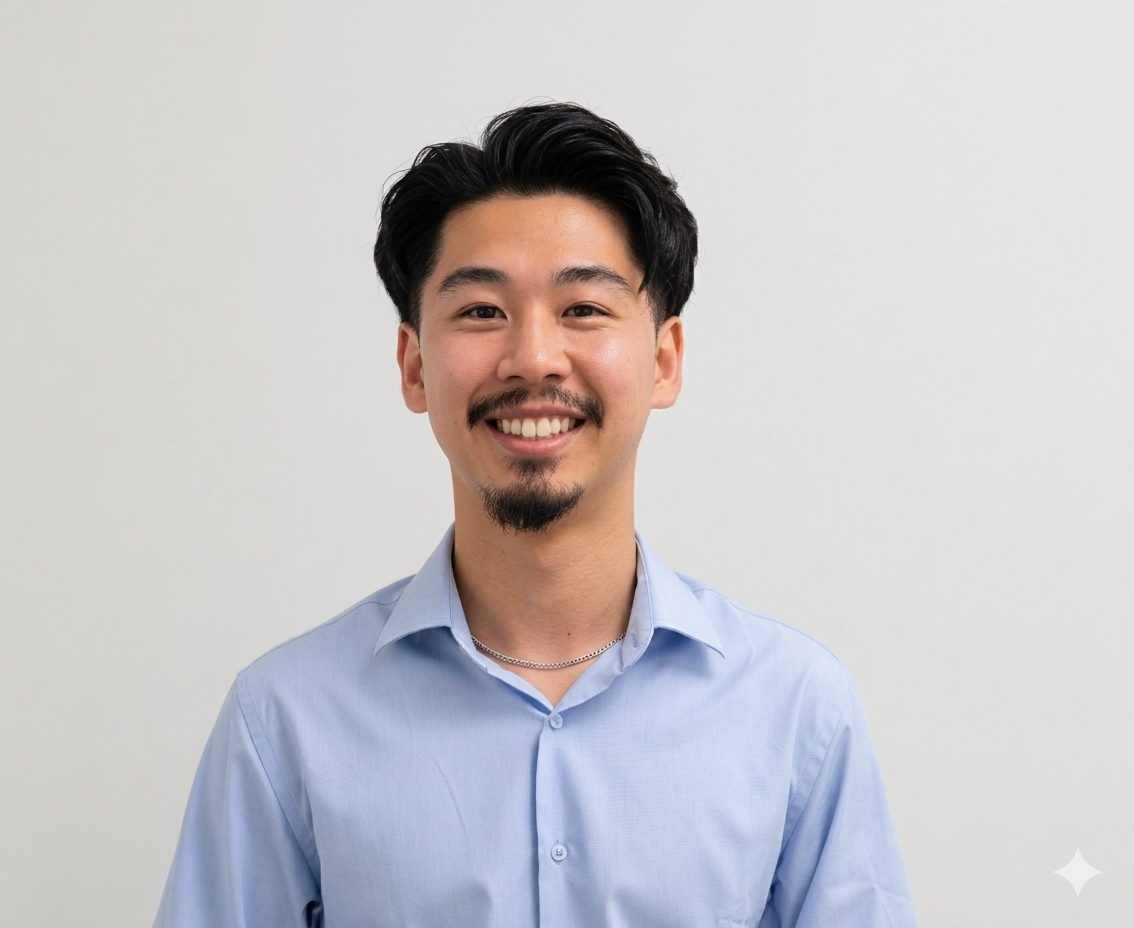
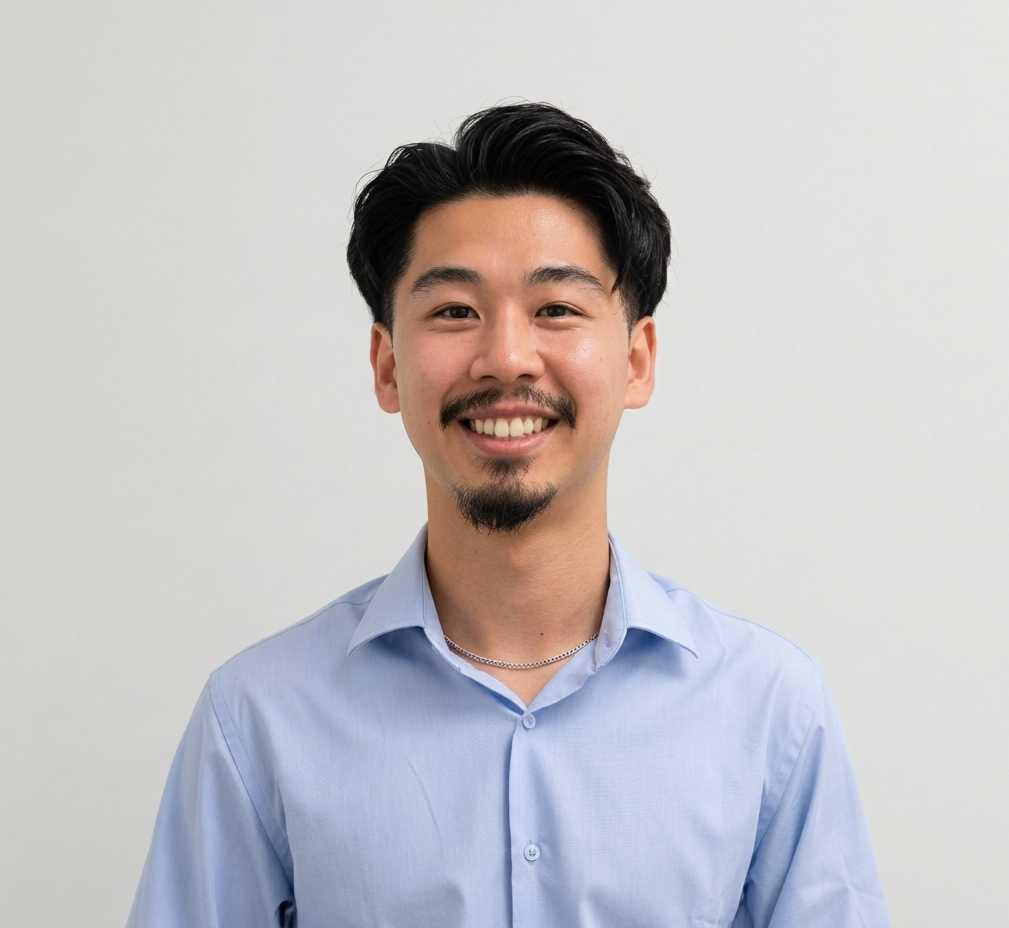
Improve mobile layout and profile photo

diff --git a/static/style.css b/static/style.css
@@ -18,6 +18,7 @@ body, html {
     color: var(--text-main);
     font-family: 'Inter', sans-serif;
     min-height: 100vh;
+    -webkit-text-size-adjust: 100%;
 }
 
 .nav-bar {
@@ -150,6 +151,7 @@ h2 { font-size: 1.5rem; margin-bottom: 15px; padding-left: 5px; }
     width: 100%;
     height: 100%;
     object-fit: cover;
+    object-position: center 34%;
 }
 
 .name-clean { margin: 0; font-size: 2.2rem; }
@@ -508,17 +510,81 @@ h2 { font-size: 1.5rem; margin-bottom: 15px; padding-left: 5px; }
 }
 
 @media (max-width: 760px) {
+    .nav-bar {
+        padding: 12px 0;
+    }
+
+    .nav-container {
+        gap: 10px 14px;
+        justify-content: flex-start;
+        overflow-x: auto;
+        padding: 0 14px;
+        scrollbar-width: none;
+        white-space: nowrap;
+    }
+
+    .nav-container::-webkit-scrollbar {
+        display: none;
+    }
+
+    .nav-bar a {
+        border: 1px solid var(--border-color);
+        border-radius: 999px;
+        color: var(--text-main);
+        flex: 0 0 auto;
+        font-size: 0.88rem;
+        padding: 8px 12px;
+        text-decoration: none;
+    }
+
+    .page-container {
+        padding: 24px 14px;
+    }
+
+    .card {
+        border-radius: 8px;
+        padding: 20px;
+    }
+
     .profile-header-clean,
     .profile-main-clean,
-    .card-header,
-    .skill-link {
-        align-items: flex-start;
+    .card-header {
+        align-items: center;
         flex-direction: column;
     }
 
     .profile-header-clean {
-        gap: 28px;
-        padding: 28px;
+        gap: 24px;
+        padding: 24px 18px;
+        text-align: center;
+    }
+
+    .avatar-container-clean {
+        height: 128px;
+        width: 128px;
+    }
+
+    .profile-orgs-clean {
+        align-items: center;
+        width: 100%;
+    }
+
+    .profile-actions {
+        justify-content: center;
+    }
+
+    .name-clean {
+        font-size: 1.8rem;
+    }
+
+    .headline-clean {
+        font-size: 1rem;
+    }
+
+    h2 {
+        font-size: 1.8rem;
+        line-height: 1.2;
+        padding-left: 0;
     }
 
     .skill-grid,
@@ -534,5 +600,59 @@ h2 { font-size: 1.5rem; margin-bottom: 15px; padding-left: 5px; }
 
     .skill-hero h1 {
         font-size: 1.9rem;
+    }
+
+    .metric-card,
+    .feature-link-card {
+        display: block;
+        min-height: auto;
+        padding: 20px;
+        text-decoration: none;
+    }
+
+    .feature-link-card span,
+    .feature-link-card p {
+        text-decoration: none;
+    }
+
+    .skills-list,
+    .compact-skills-list {
+        list-style: none;
+        padding-left: 0;
+    }
+
+    .skills-list li {
+        border-bottom: 1px solid var(--border-color);
+        padding: 12px 0;
+    }
+
+    .skills-list li:last-child {
+        border-bottom: 0;
+    }
+
+    .skill-link {
+        align-items: flex-start;
+        color: var(--text-main);
+        flex-direction: column;
+        gap: 6px;
+        line-height: 1.35;
+        text-decoration: none;
+    }
+
+    .skill-link span:first-child {
+        color: var(--text-main);
+        text-decoration: none;
+    }
+
+    .skill-arrow {
+        color: var(--accent-color);
+        font-size: 0.82rem;
+        text-decoration: none;
+    }
+
+    .project-card h2,
+    .case-study-card h2,
+    .toolkit-card h2 {
+        font-size: 1.18rem;
     }
 }

diff --git a/templates/skill.html b/templates/skill.html
@@ -4,7 +4,7 @@
     <meta charset="UTF-8">
     <meta name="viewport" content="width=device-width, initial-scale=1.0">
     <title>{{ skill.title }} | Kyle Dela Pena</title>
-    <link rel="stylesheet" href="{{ url_for('static', filename='style.css') }}">
+    <link rel="stylesheet" href="{{ url_for('static', filename='style.css') }}?v=3">
     <link href="https://fonts.googleapis.com/css2?family=Inter:wght@300;400;600&display=swap" rel="stylesheet">
 </head>
 <body>

diff --git a/templates/toolkit.html b/templates/toolkit.html
@@ -4,7 +4,7 @@
     <meta charset="UTF-8">
     <meta name="viewport" content="width=device-width, initial-scale=1.0">
     <title>Technical Toolkit | Kyle Dela Pena</title>
-    <link rel="stylesheet" href="{{ url_for('static', filename='style.css') }}">
+    <link rel="stylesheet" href="{{ url_for('static', filename='style.css') }}?v=3">
     <link href="https://fonts.googleapis.com/css2?family=Inter:wght@300;400;600&display=swap" rel="stylesheet">
 </head>
 <body>

diff --git a/templates/case_studies.html b/templates/case_studies.html
@@ -4,7 +4,7 @@
     <meta charset="UTF-8">
     <meta name="viewport" content="width=device-width, initial-scale=1.0">
     <title>Case Studies | Kyle Dela Pena</title>
-    <link rel="stylesheet" href="{{ url_for('static', filename='style.css') }}">
+    <link rel="stylesheet" href="{{ url_for('static', filename='style.css') }}?v=3">
     <link href="https://fonts.googleapis.com/css2?family=Inter:wght@300;400;600&display=swap" rel="stylesheet">
 </head>
 <body>

diff --git a/templates/experience.html b/templates/experience.html
@@ -4,7 +4,7 @@
     <meta charset="UTF-8">
     <meta name="viewport" content="width=device-width, initial-scale=1.0">
     <title>Experience | Kyle Dela Pena</title>
-    <link rel="stylesheet" href="{{ url_for('static', filename='style.css') }}">
+    <link rel="stylesheet" href="{{ url_for('static', filename='style.css') }}?v=3">
     <link href="https://fonts.googleapis.com/css2?family=Inter:wght@300;400;600&display=swap" rel="stylesheet">
 </head>
 <body>

diff --git a/templates/education.html b/templates/education.html
@@ -4,7 +4,7 @@
     <meta charset="UTF-8">
     <meta name="viewport" content="width=device-width, initial-scale=1.0">
     <title>Education | Kyle Dela Pena</title>
-    <link rel="stylesheet" href="{{ url_for('static', filename='style.css') }}">
+    <link rel="stylesheet" href="{{ url_for('static', filename='style.css') }}?v=3">
     <link href="https://fonts.googleapis.com/css2?family=Inter:wght@300;400;600&display=swap" rel="stylesheet">
 </head>
 <body>

diff --git a/templates/projects.html b/templates/projects.html
@@ -4,7 +4,7 @@
     <meta charset="UTF-8">
     <meta name="viewport" content="width=device-width, initial-scale=1.0">
     <title>Projects | Kyle Dela Pena</title>
-    <link rel="stylesheet" href="{{ url_for('static', filename='style.css') }}">
+    <link rel="stylesheet" href="{{ url_for('static', filename='style.css') }}?v=3">
     <link href="https://fonts.googleapis.com/css2?family=Inter:wght@300;400;600&display=swap" rel="stylesheet">
 </head>
 <body>

diff --git a/skills/technical-feasibility-studies-risk-mitigation/index.html b/skills/technical-feasibility-studies-risk-mitigation/index.html
@@ -4,7 +4,7 @@
     <meta charset="UTF-8">
     <meta name="viewport" content="width=device-width, initial-scale=1.0">
     <title>Technical Feasibility Studies &amp; Risk Mitigation | Kyle Dela Pena</title>
-    <link rel="stylesheet" href="../../static/style.css">
+    <link rel="stylesheet" href="../../static/style.css?v=3">
     <link href="https://fonts.googleapis.com/css2?family=Inter:wght@300;400;600&display=swap" rel="stylesheet">
 </head>
 <body>

diff --git a/skills/financial-risk-mitigation-audit-compliance/index.html b/skills/financial-risk-mitigation-audit-compliance/index.html
@@ -4,7 +4,7 @@
     <meta charset="UTF-8">
     <meta name="viewport" content="width=device-width, initial-scale=1.0">
     <title>Financial Risk Mitigation &amp; Audit Compliance | Kyle Dela Pena</title>
-    <link rel="stylesheet" href="../../static/style.css">
+    <link rel="stylesheet" href="../../static/style.css?v=3">
     <link href="https://fonts.googleapis.com/css2?family=Inter:wght@300;400;600&display=swap" rel="stylesheet">
 </head>
 <body>

diff --git a/skills/revenue-integrity-leakage-identification/index.html b/skills/revenue-integrity-leakage-identification/index.html
@@ -4,7 +4,7 @@
     <meta charset="UTF-8">
     <meta name="viewport" content="width=device-width, initial-scale=1.0">
     <title>Revenue Integrity &amp; Leakage Identification | Kyle Dela Pena</title>
-    <link rel="stylesheet" href="../../static/style.css">
+    <link rel="stylesheet" href="../../static/style.css?v=3">
     <link href="https://fonts.googleapis.com/css2?family=Inter:wght@300;400;600&display=swap" rel="stylesheet">
 </head>
 <body>

diff --git a/templates/index.html b/templates/index.html
@@ -4,7 +4,7 @@
     <meta charset="UTF-8">
     <meta name="viewport" content="width=device-width, initial-scale=1.0">
     <title>{{ name }} | Home</title>
-    <link rel="stylesheet" href="{{ url_for('static', filename='style.css') }}">
+    <link rel="stylesheet" href="{{ url_for('static', filename='style.css') }}?v=3">
     <link href="https://fonts.googleapis.com/css2?family=Inter:wght@300;400;600&display=swap" rel="stylesheet">
 </head>
 <body>

diff --git a/skills/database-migration-schema-modernization/index.html b/skills/database-migration-schema-modernization/index.html
@@ -4,7 +4,7 @@
     <meta charset="UTF-8">
     <meta name="viewport" content="width=device-width, initial-scale=1.0">
     <title>Database Migration &amp; Schema Modernization | Kyle Dela Pena</title>
-    <link rel="stylesheet" href="../../static/style.css">
+    <link rel="stylesheet" href="../../static/style.css?v=3">
     <link href="https://fonts.googleapis.com/css2?family=Inter:wght@300;400;600&display=swap" rel="stylesheet">
 </head>
 <body>
